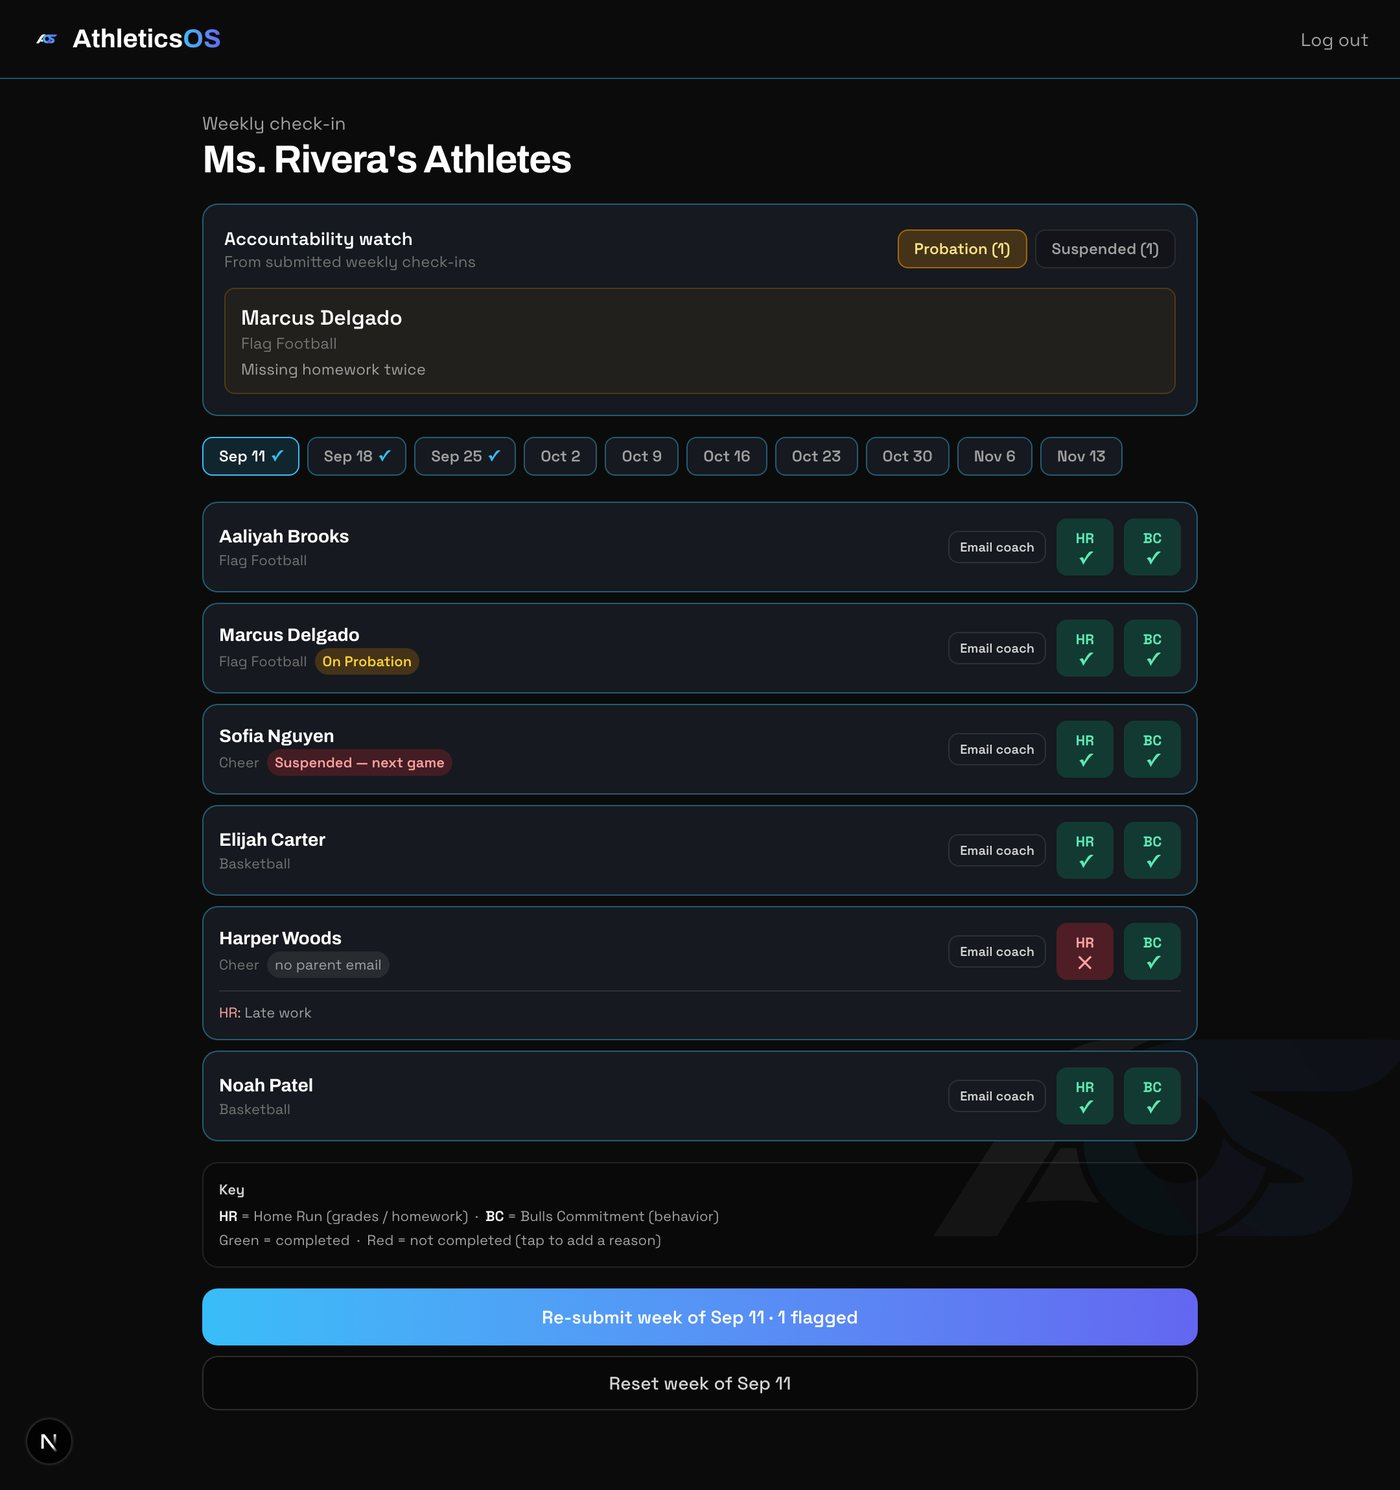
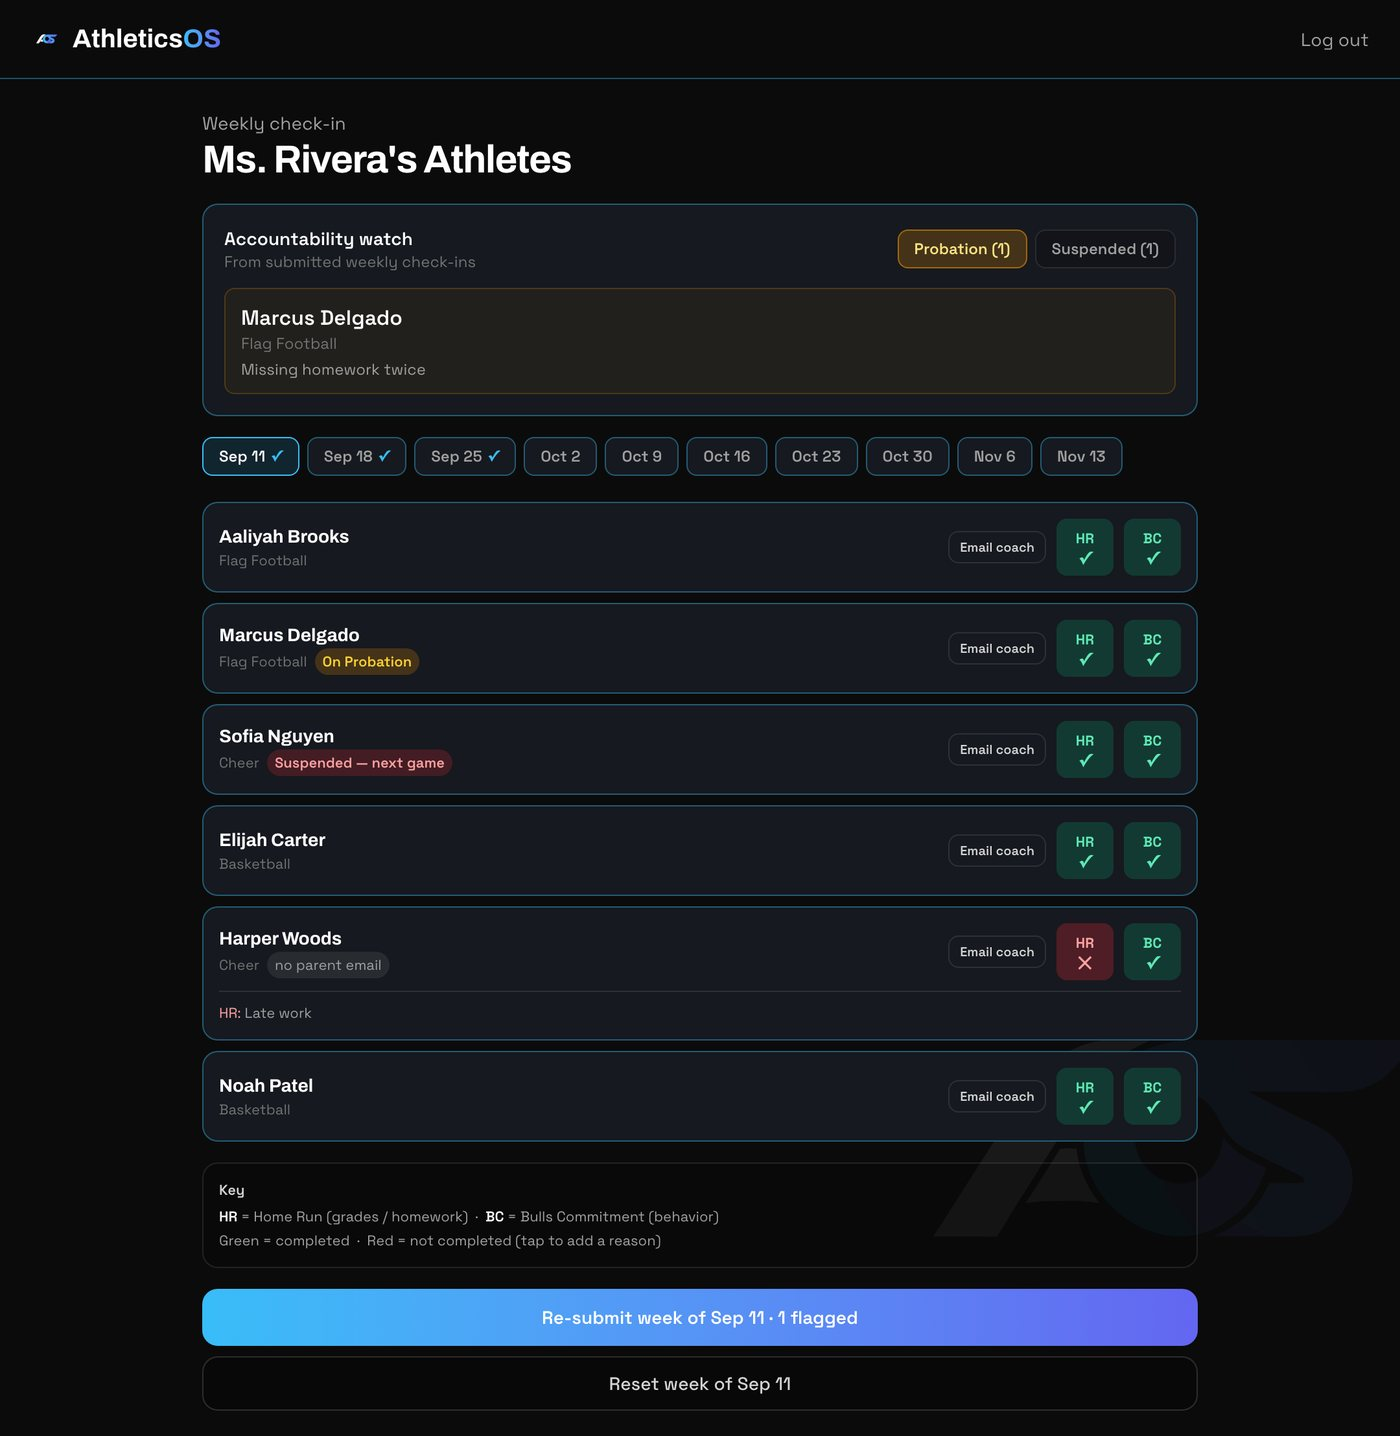
Fix the broken teacher login screenshot; make colour and sections editable
The Teacher Check-In login screenshot had captured a Next.js dev error
overlay instead of the page. Cause was mine: the harness used to open the
reason modal injected a raw <script> tag inside a React component, which
React refuses to execute and Next surfaced as a full-screen error. Replaced
it with a proper client component using useEffect, turned the dev indicator
off, and recaptured all three teacher screenshots.

Editor gaps closed so a deck really is fully editable from the browser:
- Deck colour — swatch plus hex for both the dark and light accent, applied
  live to the preview, with a reset back to SLAM red
- Sections — the act ids and the labels shown in the top progress bar

Screenshots were already editable per slide (filename always, direct upload
once a GitHub token is connected); this just fills in the two deck-level
things that still required editing the JSON by hand.

Changed region(s): [[0.1229, 0.0613, 0.86, 0.9805], [0.0921, 0.0, 0.1536, 0.0613], [0.0307, 0.0, 0.0614, 0.0306]]

diff --git a/decks/assets/editor.js b/decks/assets/editor.js
@@ -174,6 +174,55 @@
     return wrap;
   }
 
+  /* Colour swatch + hex box, kept in sync both ways */
+  function colorField(labelTxt, value, onChange, hint) {
+    var wrap = document.createElement('div');
+    wrap.className = 'field';
+    var id = 'f' + Math.random().toString(36).slice(2, 8);
+    var lab = document.createElement('label');
+    lab.setAttribute('for', id);
+    lab.textContent = labelTxt;
+
+    var row = document.createElement('div');
+    row.style.cssText = 'display:flex;gap:.5rem;align-items:center';
+
+    var swatch = document.createElement('input');
+    swatch.type = 'color';
+    swatch.id = id;
+    swatch.value = /^#[0-9a-f]{6}$/i.test(value) ? value : '#C8102E';
+    swatch.style.cssText =
+      'width:2.6rem;height:2.6rem;padding:2px;border-radius:8px;cursor:pointer;' +
+      'border:1px solid var(--line-2);background:var(--surface)';
+
+    var hex = document.createElement('input');
+    hex.type = 'text';
+    hex.value = value || '';
+    hex.spellcheck = false;
+    hex.style.flex = '1';
+
+    swatch.addEventListener('input', function () {
+      hex.value = swatch.value.toUpperCase();
+      onChange(hex.value); markDirty();
+    });
+    hex.addEventListener('input', function () {
+      var v = hex.value.trim();
+      if (/^#[0-9a-f]{6}$/i.test(v)) swatch.value = v;
+      onChange(v); markDirty();
+    });
+
+    row.appendChild(swatch);
+    row.appendChild(hex);
+    wrap.appendChild(lab);
+    wrap.appendChild(row);
+    if (hint) {
+      var h = document.createElement('p');
+      h.className = 'field-hint';
+      h.textContent = hint;
+      wrap.appendChild(h);
+    }
+    return wrap;
+  }
+
   /* A repeatable list of {h,b} pairs (steps / cards) */
   function pairList(title, arr, keyH, keyB, labelH, labelB, onStructural) {
     var sec = document.createElement('div');
@@ -276,6 +325,41 @@
       f.appendChild(textField('Subtitle', deck.subtitle, function (v) { deck.subtitle = v; }, null, true));
       if (!deck.contents) deck.contents = [];
       f.appendChild(stringList('Contents list on the cover', deck.contents, 'Item', function () { renderForm(); renderPreview(); }));
+
+      // ---- accent colour ----
+      if (!deck.theme) deck.theme = {};
+      var tsec = document.createElement('div');
+      tsec.className = 'ed-sec';
+      var th3 = document.createElement('h3');
+      th3.textContent = 'Deck colour';
+      tsec.appendChild(th3);
+      var tg = document.createElement('div');
+      tg.className = 'grid2';
+      tg.appendChild(colorField('Accent (dark theme)', deck.theme.accent || '#C8102E', function (v) {
+        deck.theme.accent = v; DeckRender.applyTheme(deck); renderPreview();
+      }, 'The bright version, used on the dark background.'));
+      tg.appendChild(colorField('Accent (light theme)', deck.theme.accentLight || deck.theme.accent || '#C8102E', function (v) {
+        deck.theme.accentLight = v; DeckRender.applyTheme(deck); renderPreview();
+      }, 'A darker shade, so it stays readable on white.'));
+      tsec.appendChild(tg);
+      var clr = document.createElement('button');
+      clr.className = 'addbtn';
+      clr.textContent = 'Reset to SLAM red';
+      clr.addEventListener('click', function () {
+        delete deck.theme;
+        var el = document.getElementById('deck-theme');
+        if (el) el.remove();
+        markDirty(); renderForm(); renderPreview();
+      });
+      tsec.appendChild(clr);
+      f.appendChild(tsec);
+
+      // ---- sections (acts) ----
+      if (!deck.acts) deck.acts = [];
+      f.appendChild(pairList('Sections (the groups in the top progress bar)', deck.acts, 'id', 'label',
+        'Section id (used by slides)', 'Section name shown on screen',
+        function () { renderForm(); renderPreview(); }));
+
       renderPreview();
       return;
     }
